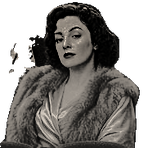
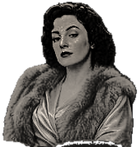
Trivia: latest glamour/kid/rebel cutouts; piece cache-bust p5

diff --git a/public/assets/trivia/trivia.js b/public/assets/trivia/trivia.js
@@ -17,20 +17,20 @@ var sfx={right:function(){tone([[880,0,.25],[1320,.08,.4],[1760,.16,.5]],"triang
 function seatPos(i){return i<0?START:SEATS[i]}
 var SEAT_DROP=11;// %: seated cutouts sink behind the seat back, matching theater_pieces_scaled.jpg
 function placePiece(i,hop){var p=seatPos(i),r=st?st.piece:cur;pieceEl.style.left=p[0]+"%";pieceEl.style.top=(r&&r.w?Math.min(p[1]+SEAT_DROP,100):p[1])+"%";if(hop){pieceEl.classList.remove("hop");void pieceEl.offsetWidth;pieceEl.classList.add("hop")}}
-var cur=null;function showPiece(p){cur=p;pieceEl.hidden=false;pieceEl.className="piece"+(p.cut?" cut":"")+(p.w?" seated":"");pieceEl.style.width=p.w?(p.w/1280*100)+"%":"";pieceEl.style.aspectRatio=p.w?"auto":"";pieceEl.querySelector("img").src=BASE+"pieces/"+p.id+".png?p4";pieceEl.querySelector("img").alt=p.name}
+var cur=null;function showPiece(p){cur=p;pieceEl.hidden=false;pieceEl.className="piece"+(p.cut?" cut":"")+(p.w?" seated":"");pieceEl.style.width=p.w?(p.w/1280*100)+"%":"";pieceEl.style.aspectRatio=p.w?"auto":"";pieceEl.querySelector("img").src=BASE+"pieces/"+p.id+".png?p5";pieceEl.querySelector("img").alt=p.name}
 function nextQuestion(){var seen=ls.get("seen",[]),pool=bank.filter(function(q){return seen.indexOf(q.id)<0&&st.asked.indexOf(q.id)<0});
  if(pool.length<5){seen=[];ls.set("seen",seen);pool=bank.filter(function(q){return st.asked.indexOf(q.id)<0})}
  var q=pool[Math.random()*pool.length|0];st.asked.push(q.id);seen.push(q.id);ls.set("seen",seen.slice(-100));
  var order=shuffle([0,1,2]);return{q:q,choices:order.map(function(i){return q.choices[i]}),answer:order.indexOf(q.answer_index)}}
 function stubsHtml(){var h="";for(var i=0;i<STRIKES;i++)h+='<i class="stub'+(i<st.strikes?" torn":"")+'" title="strike"></i>';return h}
 function renderPick(){var chosen=ls.get("piece","detective");
- screen.innerHTML='<div class="marquee pick"><span class="plaque">TRIVIA NIGHT</span><div class="panel"><h2>Choose a game piece</h2><div class="grid">'+PIECES.map(function(p){return'<button class="pc'+(p.cut?" cut":"")+'" data-id="'+p.id+'" aria-pressed="'+(p.id===chosen)+'"><img src="'+BASE+"pieces/"+p.id+'.png?p4" alt="">'+esc(p.name)+'</button>'}).join("")+'</div><div class="row"><span class="muted">For-fun play · 21 seats to the golden seat · 3 strikes</span><button class="next" id="go">PLAY</button></div></div></div>';
+ screen.innerHTML='<div class="marquee pick"><span class="plaque">TRIVIA NIGHT</span><div class="panel"><h2>Choose a game piece</h2><div class="grid">'+PIECES.map(function(p){return'<button class="pc'+(p.cut?" cut":"")+'" data-id="'+p.id+'" aria-pressed="'+(p.id===chosen)+'"><img src="'+BASE+"pieces/"+p.id+'.png?p5" alt="">'+esc(p.name)+'</button>'}).join("")+'</div><div class="row"><span class="muted">For-fun play · 21 seats to the golden seat · 3 strikes</span><button class="next" id="go">PLAY</button></div></div></div>';
  screen.querySelectorAll(".pc").forEach(function(b){b.onclick=function(){screen.querySelectorAll(".pc").forEach(function(x){x.setAttribute("aria-pressed","false")});b.setAttribute("aria-pressed","true");ls.set("piece",b.dataset.id);showPiece(PIECES.find(function(p){return p.id===b.dataset.id}));placePiece(-1)}});
  showPiece(PIECES.find(function(p){return p.id===chosen})||PIECES[0]);placePiece(-1);
  $("#go").onclick=function(){ac();start(ls.get("piece","detective"))}}
 function start(id){st={piece:PIECES.find(function(p){return p.id===id})||PIECES[0],seat:-1,strikes:0,n:0,right:0,asked:[],stubs:0};showPiece(st.piece);placePiece(-1);renderQ()}
 function renderQ(){var c=st.cur=nextQuestion();st.n++;
- screen.innerHTML='<div class="marquee"><span class="plaque">TRIVIA NIGHT</span><div class="panel"><div class="qmeta"><span>Question '+st.n+' · Seat '+(st.seat+1)+' of 21</span><span class="stubs">'+stubsHtml()+'</span></div><p class="q">'+esc(c.q.question)+'</p><div class="choices">'+c.choices.map(function(t,i){return'<button class="ch" data-i="'+i+'"><b>'+"ABC"[i]+'</b><span>'+esc(t)+'</span></button>'}).join("")+'</div><div class="row"><img class="mini" src="'+BASE+"pieces/"+st.piece.id+'.png?p4" alt=""><span class="verdict" id="verdict"></span><button class="next" id="next" hidden>NEXT</button></div></div></div>';
+ screen.innerHTML='<div class="marquee"><span class="plaque">TRIVIA NIGHT</span><div class="panel"><div class="qmeta"><span>Question '+st.n+' · Seat '+(st.seat+1)+' of 21</span><span class="stubs">'+stubsHtml()+'</span></div><p class="q">'+esc(c.q.question)+'</p><div class="choices">'+c.choices.map(function(t,i){return'<button class="ch" data-i="'+i+'"><b>'+"ABC"[i]+'</b><span>'+esc(t)+'</span></button>'}).join("")+'</div><div class="row"><img class="mini" src="'+BASE+"pieces/"+st.piece.id+'.png?p5" alt=""><span class="verdict" id="verdict"></span><button class="next" id="next" hidden>NEXT</button></div></div></div>';
  screen.querySelectorAll(".ch").forEach(function(b){b.onclick=function(){answer(+b.dataset.i)}})}
 function answer(i){var c=st.cur,btns=screen.querySelectorAll(".ch"),ok=i===c.answer,v=$("#verdict");btns.forEach(function(b){b.disabled=true});btns[c.answer].classList.add("right");
  if(ok){st.right++;st.stubs++;st.seat++;placePiece(st.seat,true);sfx.right();v.textContent="Right! Move up a seat."}else{btns[i].classList.add("wrong");st.strikes++;sfx.wrong();setTimeout(sfx.darn,450);v.textContent="Darn! Strike "+st.strikes+".";screen.querySelector(".stubs").innerHTML=stubsHtml()}
